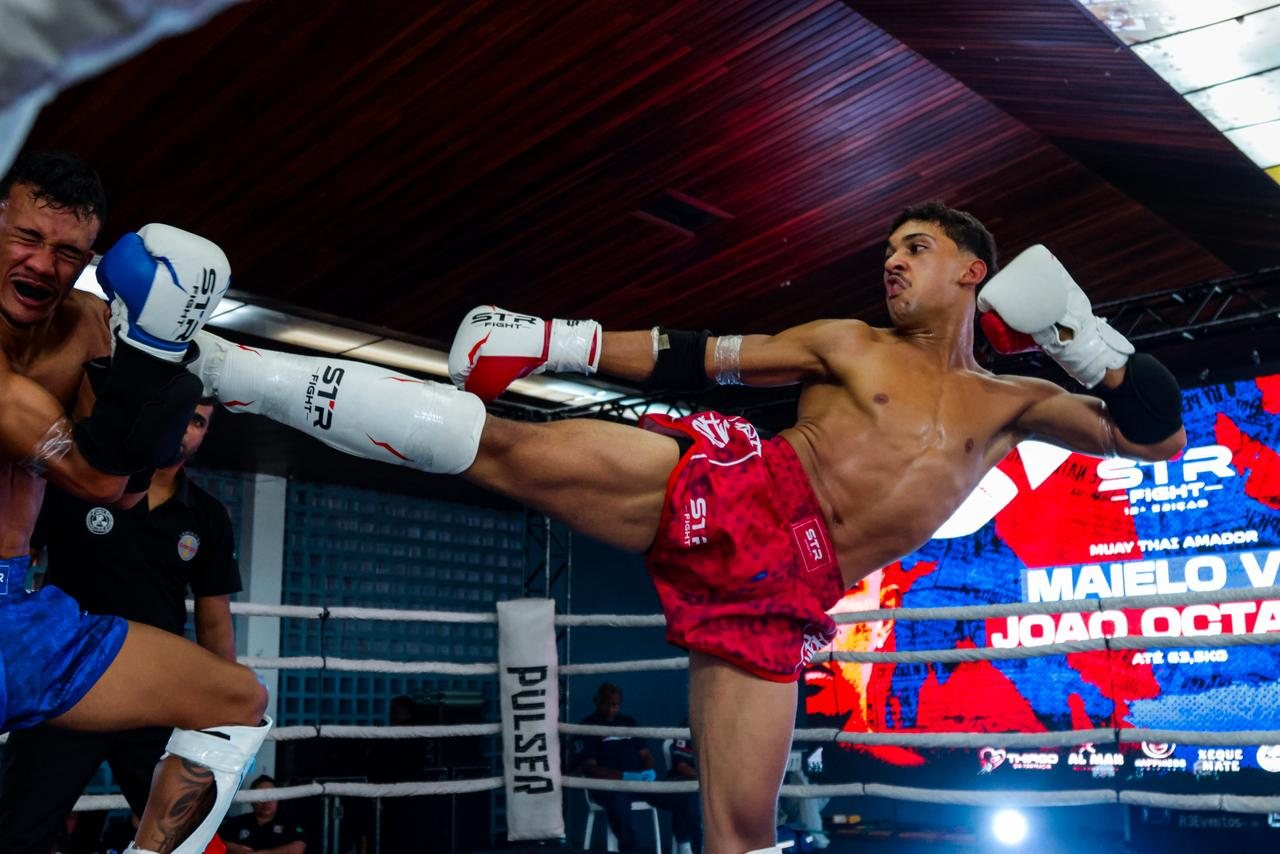
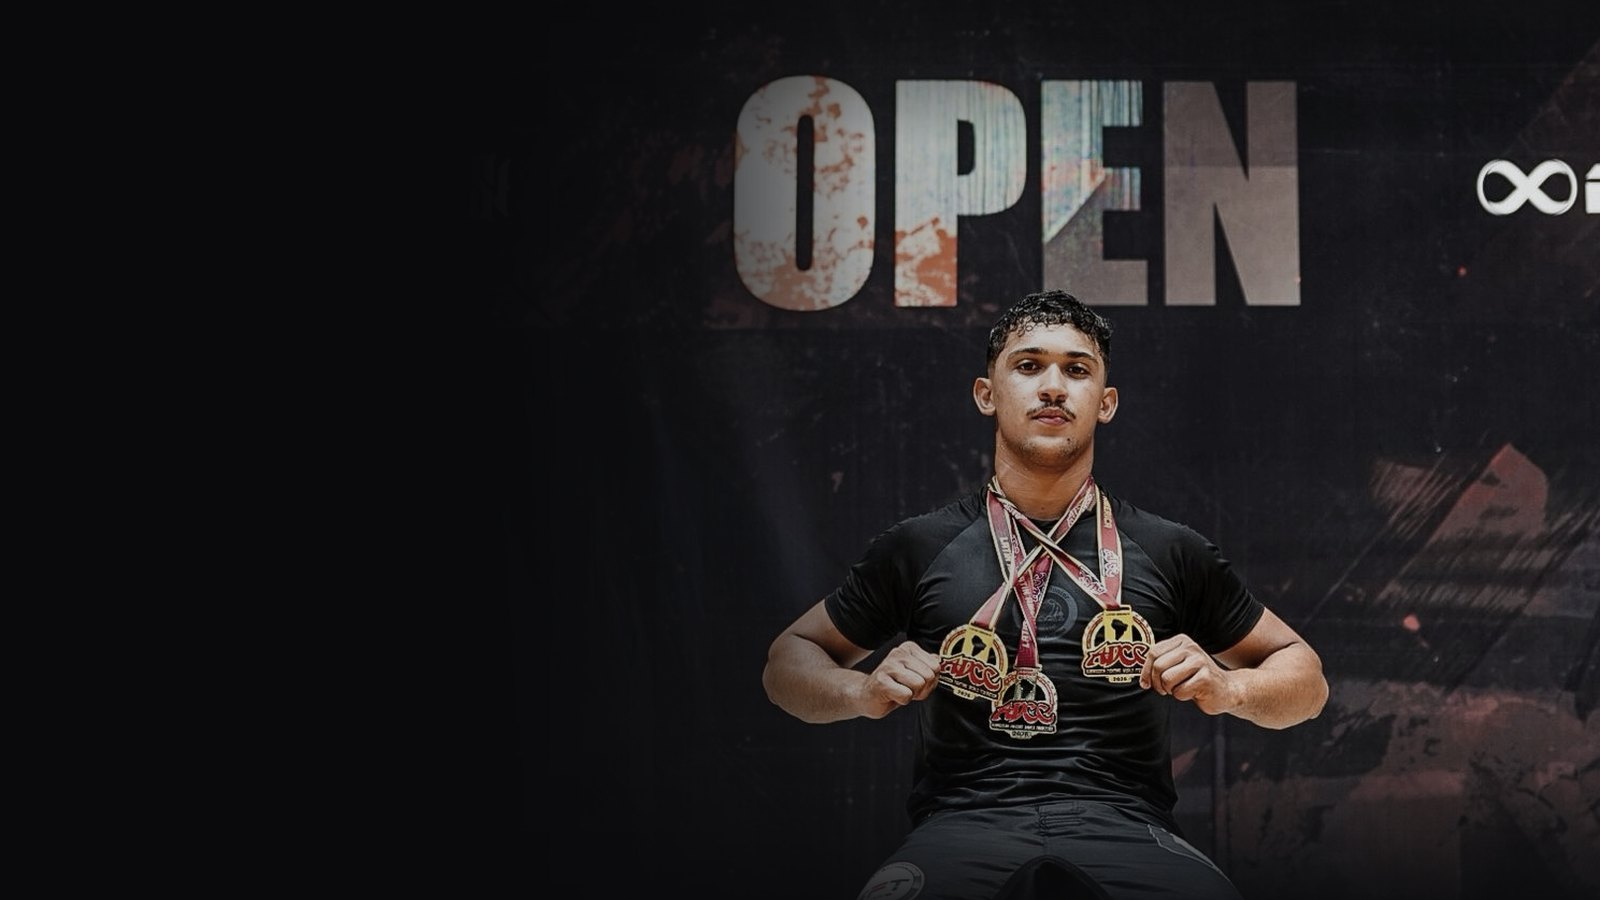
feat: hero passa a ser a foto do podio ADCC com as tres medalhas
- hero desktop montado em 1600x900 com o atleta a direita e dissolvencia embutida
- hero mobile vertical com a foto inteira
- conquistas recebe a foto do ringue (S1R Fight)
- card de kickboxing recebe a foto do chute alto

diff --git a/index.html b/index.html
@@ -121,17 +121,23 @@ nav{
   background:linear-gradient(160deg,#0A0A0C 0%,#16171B 60%,#0A0A0C 100%);
   position:relative;overflow:hidden;
 }
+/* a foto do hero já vem com a dissolvência para o preto embutida no arquivo */
 .hero-foto{
   position:absolute;inset:0;
   background-image:url('img/hero.jpg');
-  background-size:cover;background-position:68% center;
-  filter:saturate(.62) contrast(1.05);
+  background-size:cover;background-position:center;
 }
 .hero::after{
   content:"";position:absolute;inset:0;pointer-events:none;
   background:
-    linear-gradient(90deg,#0A0A0C 0%,rgba(10,10,12,.95) 24%,rgba(10,10,12,.66) 50%,rgba(10,10,12,.28) 74%,rgba(10,10,12,.5) 100%),
-    linear-gradient(180deg,rgba(10,10,12,.88) 0%,rgba(10,10,12,.15) 30%,rgba(10,10,12,.2) 58%,#0A0A0C 100%);
+    linear-gradient(90deg,rgba(10,10,12,.9) 0%,rgba(10,10,12,.66) 24%,rgba(10,10,12,.22) 50%,transparent 70%),
+    linear-gradient(180deg,rgba(10,10,12,.72) 0%,transparent 26%,transparent 62%,#0A0A0C 100%);
+}
+@media(max-width:768px){
+  .hero-foto{background-image:url('img/hero-mobile.jpg');background-position:center 6%}
+  .hero::after{
+    background:linear-gradient(180deg,rgba(10,10,12,.86) 0%,rgba(10,10,12,.6) 20%,rgba(10,10,12,.62) 54%,rgba(10,10,12,.88) 84%,#0A0A0C 100%);
+  }
 }
 .hero .wrap{position:relative;z-index:2}
 .hero h1{font-size:clamp(2.5rem,9.2vw,6.4rem);max-width:16ch}
@@ -390,9 +396,9 @@ footer{border-top:1px solid var(--linha);padding:52px 0 40px;font-size:.84rem;co
      </div>
 
      <figure class="foto-card rev">
-       <img src="img/adcc-podio.jpg" width="900" height="1200" loading="lazy" decoding="async"
-            alt="João Octávio sentado no pódio do ADCC Latin America Open com três medalhas no pescoço.">
-       <figcaption><b>ADCC Latin America Open</b> — o terceiro título</figcaption>
+       <img src="img/conquista-ringue.jpg" width="900" height="1200" loading="lazy" decoding="async"
+            alt="João Octávio no ringue do S1R Fight, de shorts vermelho de muay thai, comemorando.">
+       <figcaption><b>S1R Fight</b> — invicto no muay thai</figcaption>
      </figure>
     </div>
 
@@ -471,8 +477,8 @@ footer{border-top:1px solid var(--linha);padding:52px 0 40px;font-size:.84rem;co
       </div>
       <div class="rot-card rev">
         <div class="rot-foto">
-          <img src="img/rotina-kickboxing.jpg" width="800" height="1000" loading="lazy" decoding="async"
-               alt="João Octávio comemorando no ringue, de shorts vermelho de muay thai, durante o S1R Fight.">
+          <img src="img/rotina-kickboxing.jpg" width="1000" height="700" loading="lazy" decoding="async"
+               alt="João Octávio aplicando um chute alto no adversário durante luta de muay thai no S1R Fight.">
         </div>
         <div class="rot-body">
           <div class="rot-hora">Manhã</div>
